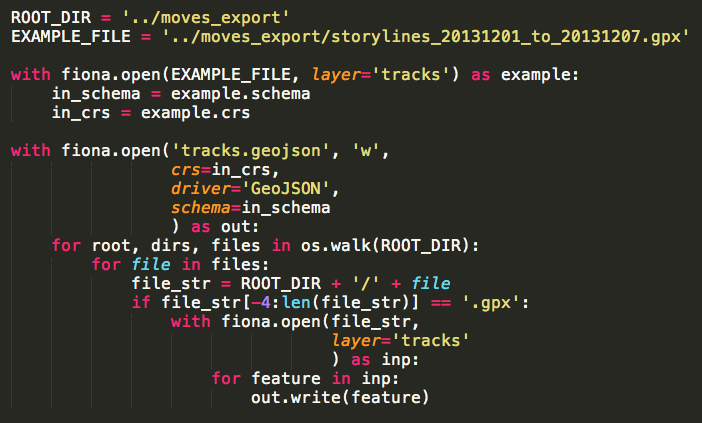
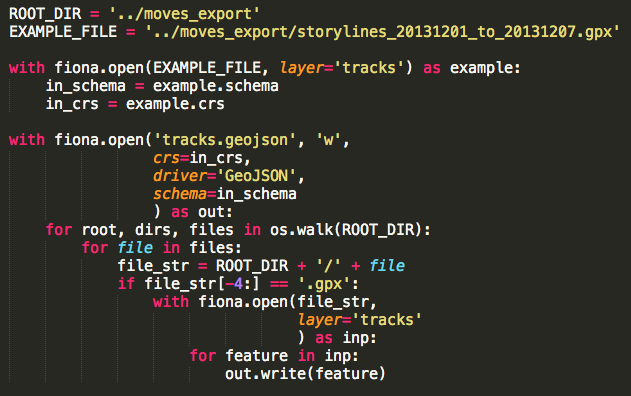
thanks, dude in the audience!

diff --git a/code_examples/fiona_example2.py b/code_examples/fiona_example2.py
@@ -17,7 +17,7 @@ with fiona.open('tracks.geojson', 'w',
     for root, dirs, files in os.walk(ROOT_DIR):
         for file in files:
             file_str = ROOT_DIR + '/' + file
-            if file_str[-4:len(file_str)] == '.gpx':
+            if file_str[-4:] == '.gpx':
                 with fiona.open(file_str,
                                 layer='tracks'
                                 ) as inp:

diff --git a/presentation.md b/presentation.md
@@ -141,7 +141,7 @@ This next example is useful for those of you who are interested in the whole [qu
             for root, dirs, files in os.walk(ROOT_DIR):
                 for file in files:
                     file_str = ROOT_DIR + '/' + file
-                    if file_str[-4:len(file_str)] == '.gpx':
+                    if file_str[-4:] == '.gpx':
                         with fiona.open(file_str,
                                         layer='tracks'
                                         ) as inp:
